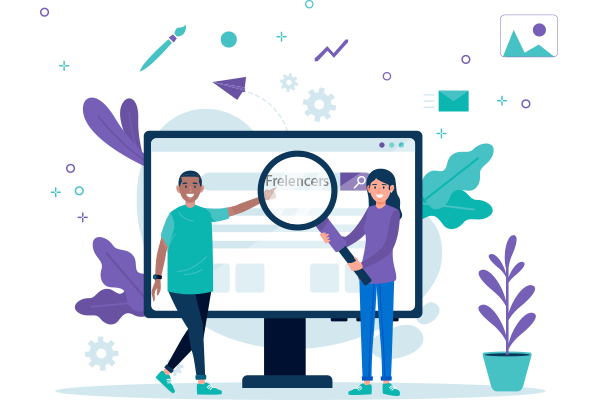
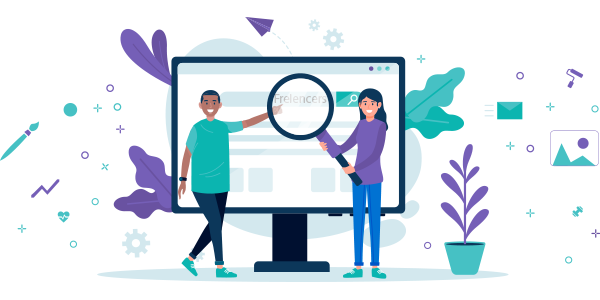
Update: nouveau menu navigation découverte

diff --git a/src/pages/home.css b/src/pages/home.css
@@ -25,7 +25,7 @@
   display: flex;
   flex-direction: column;
   align-items: center;
-  gap: 20px;
+  gap: 5px;
 }
 
 /* ========================================
@@ -34,7 +34,7 @@
 
 .hero-image-container {
   width: 100%;
-  max-width: 500px;
+  max-width: 600px;
   margin-bottom: 10px;
   animation: fadeInUp 0.4s ease-out;
 }
@@ -52,7 +52,7 @@
 
 .logo-container {
   text-align: center;
-  margin-bottom: 25px;
+  margin-bottom: 20px;
   animation: fadeInUp 0.6s ease-out;
 }
 
@@ -151,7 +151,7 @@
 .action-buttons {
   display: flex;
   gap: 30px;
-  margin-top: 12px;
+  margin-top: 20px;
   animation: fadeInUp 1s ease-out;
 }
 
